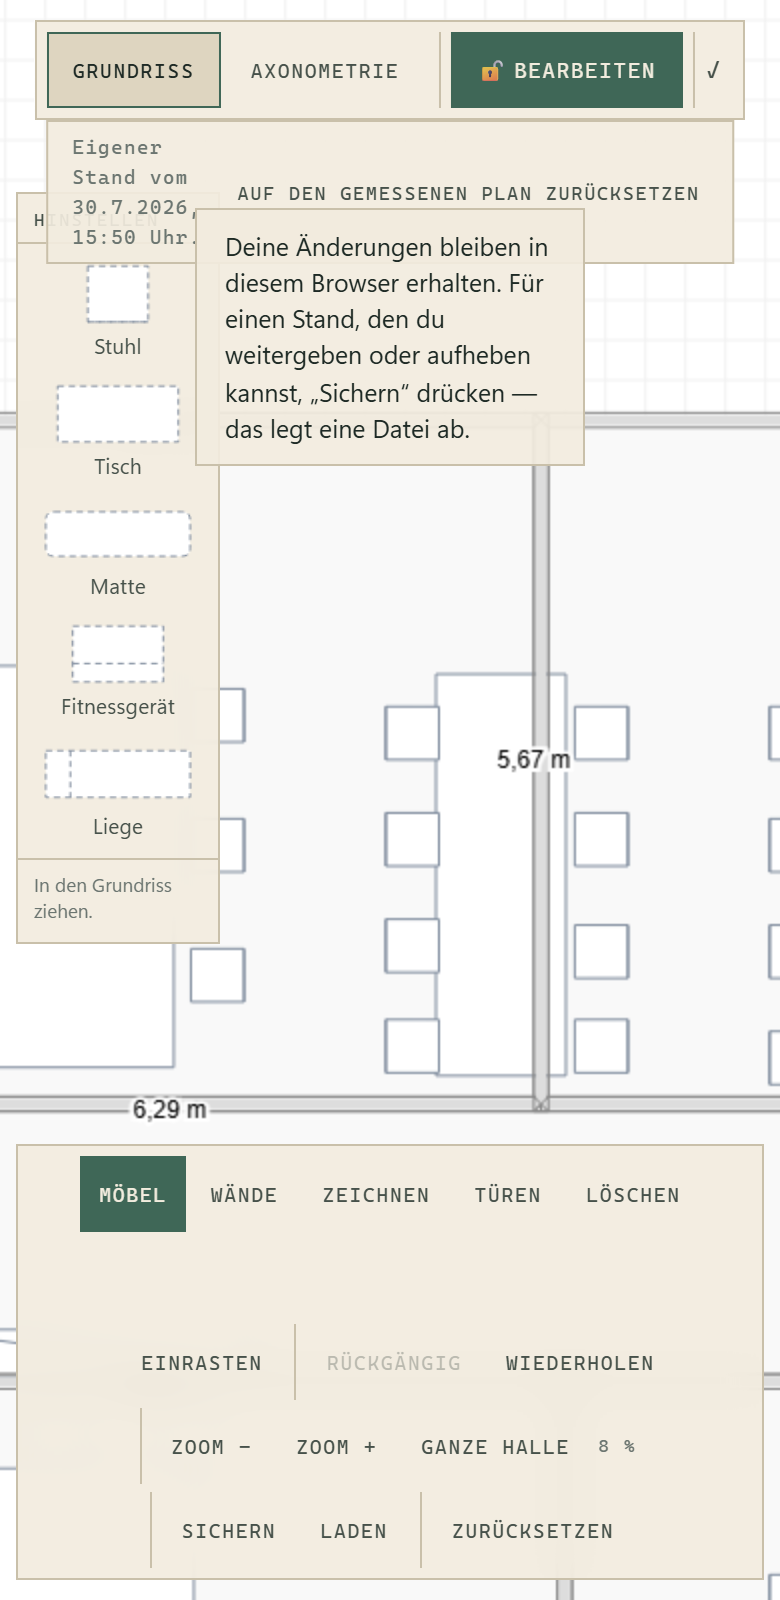
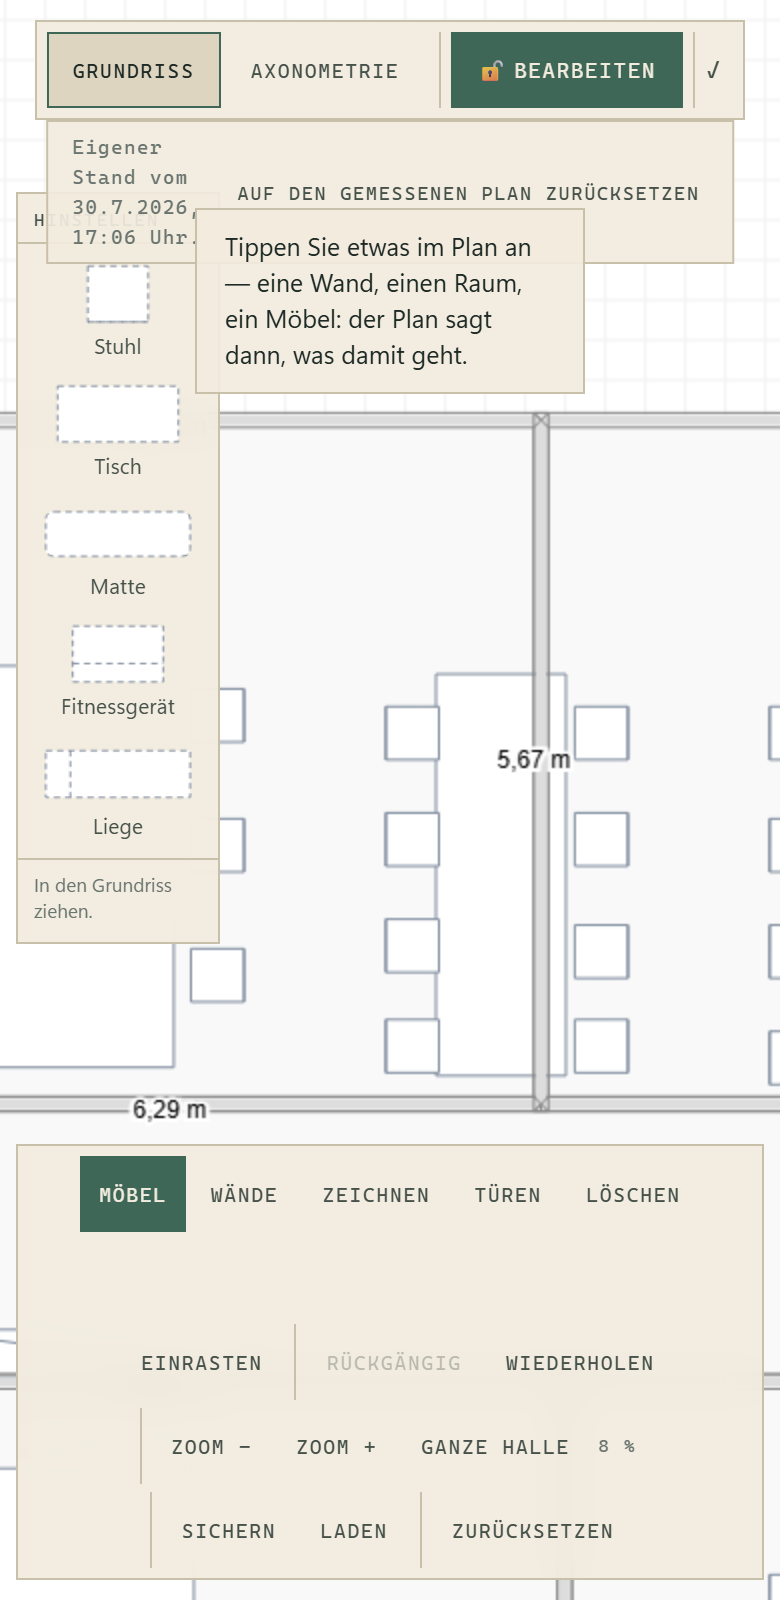
chore(autosave): drift-anchor 2026-07-30T15:10:49Z — 20 dirty tracked file(s)

Changed region(s): [[0.2769, 0.125, 0.7692, 0.3125]]

diff --git a/Halle400-Modell.html b/Halle400-Modell.html
@@ -252,6 +252,30 @@
        color:var(--ink-dim);line-height:1.4}
   .objektmenue .eintrag.ernst:hover .zusatz{color:rgba(255,255,255,.85)}
 
+  /* ── AM SCHMALEN BILDSCHIRM STEHT ES UNTEN, NICHT AM OBJEKT ────────────
+     GEMESSEN und nicht vermutet: bei 390 px Breite ist das Menue 340 px
+     breit und rund 200 hoch — es verdeckt damit einen guten Teil des Plans
+     UND faengt die naechste Beruehrung ab. Ein Zwei-Finger-Zoom, bei dem
+     eine Kuppe darauf landet, ist danach verloren: welches Element eine
+     Beruehrungs-Geste besitzt, steht beim Aufsetzen fest und laesst sich
+     nachtraeglich nicht mehr umlenken (`pruefe-finger.mjs` D1 hat genau das
+     gefunden — der Zoom blieb bei 0,591 px/cm stehen).
+
+     Die Begruendung fuer „am Objekt" faellt am Telefon ohnehin weg: dort
+     verdeckt die Fingerkuppe das Ding bereits, die raeumliche Verbindung
+     entsteht also gar nicht erst. Der Titel des Menues traegt sie
+     stattdessen — er nennt Raum und Flaeche.
+
+     Es sitzt UEBER der Werkzeugleiste (bottom = deren Hoehe), damit beide
+     erreichbar bleiben. Die Hoehe ist gedeckelt und die Liste scrollt: ein
+     Menue, das ueber den oberen Rand hinauswaechst, waere unbedienbar. */
+  @media (max-width: 640px){
+    .objektmenue{left:0 !important;right:0;max-width:100%;min-width:0;
+         top:auto !important;border-left:0;border-right:0;
+         box-shadow:0 -6px 22px rgba(31,35,33,.17)}
+    .objektmenue #objektMenueListe{max-height:46vh;overflow-y:auto}
+  }
+
   /* Rueckfragen liegen unten mittig und NICHT am Zeiger: am Zeiger verdeckten
      sie genau das Objekt, ueber das sie eine Auskunft verlangen (E1). */
   .frage{position:fixed;left:50%;bottom:76px;transform:translateX(-50%);
@@ -903,7 +927,7 @@ const HOEHEN = {"oberkante":{"tisch":74,"rundtisch":74,"stuhl":45,"schrank":200,
 
 /* Fingerabdruck des eingebauten Plans und Zeitpunkt dieses Baus. */
 const PLAN_ABDRUCK = "c8051b95fb22";
-const BAU_STEMPEL = "2026-07-30 14:23";
+const BAU_STEMPEL = "2026-07-30 15:08";
 
 /* ══════ three (Rechen-Teil, ohne Bildschirm-Ausgabe) ══════ */
 /* eslint-disable */
@@ -8659,6 +8683,11 @@ class Floorplanner {
             this.fingerStartX = this.fingerX;
             this.fingerStartY = this.fingerY;
             this.fingerHatGeschoben = false;
+            // W13: ein neuer Griff nimmt ein offenes Menü zurück — dieselbe Zeile
+            // wie in `mousedown`, und sie fehlte hier. Ohne sie bliebe das Menü über
+            // dem Plan stehen und FINGE die nächsten Berührungen ab: der Nutzer
+            // könnte danach nicht mehr zoomen, ohne es erst zu schliessen.
+            this.menueSchliessen();
             // --- MOEBEL MIT DEM FINGER ZIEHEN (Handy-Welle)
             //
             // Die Absichts-Trennung ist DIESELBE, die die Maus schon hat, nur an
@@ -8704,6 +8733,40 @@ class Floorplanner {
                             this.zugBeginnen(this.activeWall.id, this.mouseX, this.mouseY)
                         : this.activeAusstattung !== null &&
                             this.zugBeginnen(this.activeAusstattung, this.mouseX, this.mouseY);
+                // --- W13 AM HANDY: LANGDRUCK, NICHT TIPPEN
+                //
+                // Am Rechner öffnet ein Klick das Menü (`mouseup`). Am Telefon wäre
+                // dasselbe falsch, und das ist GEMESSEN und nicht befürchtet: ein
+                // kurzer Tipp trifft dort fast immer etwas (unter jedem Punkt liegt
+                // mindestens ein Raum), das Menü erschiene also bei jeder Berührung —
+                // und es läge danach unter dem Daumen. `pruefe-finger.mjs` D1 hat
+                // genau das gefunden: nach einem Tipp stand das Menü über der Stelle,
+                // an der als Nächstes zwei Finger aufsetzten, und der Zoom blieb bei
+                // 0,591 px/cm stehen. WELCHES Element eine Berührungs-Geste besitzt,
+                // steht beim Aufsetzen fest und lässt sich nachträglich nicht umlenken
+                // — ein „schliesst sich beim nächsten Griff" kommt also zu spät.
+                //
+                // Der LANGDRUCK löst beides: er ist eine absichtliche Geste (kein
+                // Versehen beim Zielen), er ist am Telefon die gewohnte Art, ein
+                // Kontextmenü zu rufen, und er lässt Tippen, Ziehen und Zoomen
+                // unangetastet. Die Infrastruktur steht seit E3 — dort ruft derselbe
+                // Griff im Löschen-Werkzeug die Rückfrage. Hier ist es dieselbe Geste
+                // in den beiden Werkzeugen, in denen sie noch frei war.
+                this.langdruckAbbrechen();
+                this.langdruckTimer = setTimeout(() => {
+                    this.langdruckTimer = null;
+                    // Nur wenn der Finger wirklich LIEGEN GEBLIEBEN ist. Wer inzwischen
+                    // schiebt oder zieht, meint keine Auskunft.
+                    if (this.fingerHatGeschoben)
+                        return;
+                    const anfrage = this.objektUnter(this.mouseX, this.mouseY);
+                    if (!anfrage)
+                        return;
+                    // Ein begonnener Zug wird zurückgenommen: es hat sich nichts bewegt,
+                    // und ein offener Griff hinter einem Menü zöge beim Loslassen weiter.
+                    this.fingerZugBeenden();
+                    this.menueMelden(anfrage);
+                }, LANGDRUCK_MS);
                 if (!this.fingerGreift) {
                     // Nichts in der Hand: die Marken MUESSEN weg. Am Handy raeumt kein
                     // Wegfahren sie ab — ein liegen gebliebener Rahmen behauptete einen
@@ -8848,21 +8911,6 @@ class Floorplanner {
                 this.lastNode = corner;
             }
             this.view.draw();
-        }
-        // --- ANTIPPEN öffnet das Menü, auch am Handy (W13)
-        //
-        // Das Gegenstück zum Klick-Zweig in `mouseup`, und es MUSS hier stehen:
-        // `mouseup` kommt am Telefon nicht zuverlässig, und der ganze Zweck von W13
-        // — eine Bedienung ohne Werkzeugkunde — trägt vor allem dort, wo es keine
-        // Werkzeugleiste in Griffweite gibt. Gemessen wird über
-        // `fingerHatGeschoben` (die vorhandene Wahrheit über „Tippen oder
-        // Schieben", Schwelle `FINGER_WACKEL_PX`) und nicht über `warAntippen`:
-        // dessen Weg-Rechnung sitzt an den MAUS-Feldern, die der Finger nicht füllt.
-        if ((this.mode == floorplannerModes.MOVE || this.mode == floorplannerModes.WAND) &&
-            !this.fingerHatGeschoben &&
-            !this.zugGesichert) {
-            const anfrage = this.objektUnter(this.mouseX, this.mouseY);
-            this.menueMelden(anfrage);
         }
         this.fingerHatGeschoben = false;
     }
@@ -12397,6 +12445,29 @@ function setzeBearbeiten(an, merken){
   if (!an) zeichner.zugBeenden();
   // Ein ruhendes Loeschen-Werkzeug waere eine Falle beim naechsten OEffnen.
   if (!an) zeichner.setMode(floorplannerModes.MOVE);
+  // W13 schliesst ein offenes Menue mit: es gehoert zu den Werkzeugen, und ein
+  // Fenster, das die reine Ansicht ueberlebt, boete dort Handlungen an.
+  if (!an) zeichner.menueSchliessen();
+  /* DIE BEDIENUNG MUSS SICH SELBST NENNEN (W13).
+
+     Das ist keine Nettigkeit, sondern die Lehre aus genau dieser Welle: das
+     Wand-Werkzeug war zwei Wellen lang da und wurde nicht gefunden, weil
+     niemand es ansagte. Ein Menue, das man nur durch Ausprobieren entdeckt,
+     haette denselben Fehler eine Ebene hoeher wiederholt — und wer nicht
+     weiss, dass man tippen kann, tippt nicht.
+
+     Beim EINSCHALTEN und nur dann: waehrend der Arbeit waere derselbe Satz
+     alle paar Minuten eine Belaestigung. Die Meldung verschwindet nach neun
+     Sekunden von selbst (`meldung`). */
+  if (an) {
+    /* ZWEI Fassungen, weil es zwei Gesten sind (W13): am Rechner ein Klick, am
+       Telefon ein Langdruck. Ein Hinweis, der eine Geste verspricht, die es auf
+       diesem Geraet nicht gibt, ist schlimmer als keiner — der Nutzer sucht den
+       Fehler dann bei sich (dieselbe Lehre wie bei den Q/E-Versprechen, W8). */
+    meldung(window.matchMedia('(pointer: coarse)').matches
+      ? 'Halten Sie etwas im Plan gedrückt — eine Wand, einen Raum, ein Möbel: der Plan sagt dann, was damit geht.'
+      : 'Tippen Sie etwas im Plan an — eine Wand, einen Raum, ein Möbel: der Plan sagt dann, was damit geht.');
+  }
   if (merken && speicher) {
     try { speicher.setItem(SCHLUESSEL_BEARBEITEN, an ? '1' : '0'); } catch (e) { /* Platz ist knapp; der Schalter ist es nicht wert */ }
   }
@@ -13006,7 +13077,18 @@ function menueSetzen(screenX, screenY){
   const rand = 10;
   objektMenue.style.left = '0px';
   objektMenue.style.top = '0px';
+  objektMenue.style.bottom = '';
   objektMenue.hidden = false;
+
+  /* Am schmalen Bildschirm liegt es unten und folgt dem Griffpunkt NICHT
+     (Begruendung im Stilblock). Die Hoehe der Werkzeugleiste wird GEMESSEN
+     und nicht geschaetzt — sie bricht je nach Breite unterschiedlich oft um,
+     dieselbe Rechnung wie in `frageZeigen`. */
+  if (window.matchMedia('(max-width: 640px)').matches){
+    objektMenue.style.bottom = (werkzeuge.hidden ? 12 : werkzeuge.offsetHeight + 14) + 'px';
+    return;
+  }
+
   const kasten = objektMenue.getBoundingClientRect();
   const plan = el('grundriss-canvas').getBoundingClientRect();
   /* Der Griffpunkt kommt in Canvas-Koordinaten (`convertX/convertY`), das
@@ -13077,6 +13159,23 @@ zeichner.addMenueAnfrageCallback(function(anfrage){
 });
 
 el('objektMenueZu').addEventListener('click', function(){ zeichner.menueSchliessen(); });
+
+/* EIN OFFENES MENUE DARF DEN PLAN NICHT VERSPERREN.
+
+   Es liegt `fixed` ueber der Zeichenflaeche und faengt dort zwangslaeufig
+   Beruehrungen ab. Der Kern schliesst es bei jedem Griff AUF DEN CANVAS
+   (`mousedown`/`fingerStart`) — aber ein Griff, der auf dem Menue selbst
+   landet, erreicht den Kern gar nicht. Ohne diese Zeile bliebe es genau dann
+   stehen, wenn der Nutzer daneben greift, und der naechste Zoom-Versuch liefe
+   ins Leere.
+
+   In der ERFASSUNGS-Phase und ohne `preventDefault`: das Menue geht zu UND die
+   Beruehrung wirkt trotzdem. Wer daneben greift, hat den Plan gemeint. */
+document.addEventListener('pointerdown', function(e){
+  if (objektMenue.hidden) return;
+  if (objektMenue.contains(e.target)) return;
+  zeichner.menueSchliessen();
+}, true);
 
 /* Eine weitere Stufe IM Menue statt eines neuen Fensters.
 

diff --git a/src/floorplanner/floorplanner.ts b/src/floorplanner/floorplanner.ts
@@ -2585,6 +2585,11 @@ export class Floorplanner {
       this.fingerStartX = this.fingerX
       this.fingerStartY = this.fingerY
       this.fingerHatGeschoben = false
+      // W13: ein neuer Griff nimmt ein offenes Menü zurück — dieselbe Zeile
+      // wie in `mousedown`, und sie fehlte hier. Ohne sie bliebe das Menü über
+      // dem Plan stehen und FINGE die nächsten Berührungen ab: der Nutzer
+      // könnte danach nicht mehr zoomen, ohne es erst zu schliessen.
+      this.menueSchliessen()
 
       // --- MOEBEL MIT DEM FINGER ZIEHEN (Handy-Welle)
       //
@@ -2631,6 +2636,39 @@ export class Floorplanner {
               this.zugBeginnen(this.activeWall.id, this.mouseX, this.mouseY)
             : this.activeAusstattung !== null &&
               this.zugBeginnen(this.activeAusstattung, this.mouseX, this.mouseY)
+        // --- W13 AM HANDY: LANGDRUCK, NICHT TIPPEN
+        //
+        // Am Rechner öffnet ein Klick das Menü (`mouseup`). Am Telefon wäre
+        // dasselbe falsch, und das ist GEMESSEN und nicht befürchtet: ein
+        // kurzer Tipp trifft dort fast immer etwas (unter jedem Punkt liegt
+        // mindestens ein Raum), das Menü erschiene also bei jeder Berührung —
+        // und es läge danach unter dem Daumen. `pruefe-finger.mjs` D1 hat
+        // genau das gefunden: nach einem Tipp stand das Menü über der Stelle,
+        // an der als Nächstes zwei Finger aufsetzten, und der Zoom blieb bei
+        // 0,591 px/cm stehen. WELCHES Element eine Berührungs-Geste besitzt,
+        // steht beim Aufsetzen fest und lässt sich nachträglich nicht umlenken
+        // — ein „schliesst sich beim nächsten Griff" kommt also zu spät.
+        //
+        // Der LANGDRUCK löst beides: er ist eine absichtliche Geste (kein
+        // Versehen beim Zielen), er ist am Telefon die gewohnte Art, ein
+        // Kontextmenü zu rufen, und er lässt Tippen, Ziehen und Zoomen
+        // unangetastet. Die Infrastruktur steht seit E3 — dort ruft derselbe
+        // Griff im Löschen-Werkzeug die Rückfrage. Hier ist es dieselbe Geste
+        // in den beiden Werkzeugen, in denen sie noch frei war.
+        this.langdruckAbbrechen()
+        this.langdruckTimer = setTimeout(() => {
+          this.langdruckTimer = null
+          // Nur wenn der Finger wirklich LIEGEN GEBLIEBEN ist. Wer inzwischen
+          // schiebt oder zieht, meint keine Auskunft.
+          if (this.fingerHatGeschoben) return
+          const anfrage = this.objektUnter(this.mouseX, this.mouseY)
+          if (!anfrage) return
+          // Ein begonnener Zug wird zurückgenommen: es hat sich nichts bewegt,
+          // und ein offener Griff hinter einem Menü zöge beim Loslassen weiter.
+          this.fingerZugBeenden()
+          this.menueMelden(anfrage)
+        }, LANGDRUCK_MS)
+
         if (!this.fingerGreift) {
           // Nichts in der Hand: die Marken MUESSEN weg. Am Handy raeumt kein
           // Wegfahren sie ab — ein liegen gebliebener Rahmen behauptete einen
@@ -2785,24 +2823,6 @@ export class Floorplanner {
         this.lastNode = corner
       }
       this.view.draw()
-    }
-
-    // --- ANTIPPEN öffnet das Menü, auch am Handy (W13)
-    //
-    // Das Gegenstück zum Klick-Zweig in `mouseup`, und es MUSS hier stehen:
-    // `mouseup` kommt am Telefon nicht zuverlässig, und der ganze Zweck von W13
-    // — eine Bedienung ohne Werkzeugkunde — trägt vor allem dort, wo es keine
-    // Werkzeugleiste in Griffweite gibt. Gemessen wird über
-    // `fingerHatGeschoben` (die vorhandene Wahrheit über „Tippen oder
-    // Schieben", Schwelle `FINGER_WACKEL_PX`) und nicht über `warAntippen`:
-    // dessen Weg-Rechnung sitzt an den MAUS-Feldern, die der Finger nicht füllt.
-    if (
-      (this.mode == floorplannerModes.MOVE || this.mode == floorplannerModes.WAND) &&
-      !this.fingerHatGeschoben &&
-      !this.zugGesichert
-    ) {
-      const anfrage = this.objektUnter(this.mouseX, this.mouseY)
-      this.menueMelden(anfrage)
     }
 
     this.fingerHatGeschoben = false
